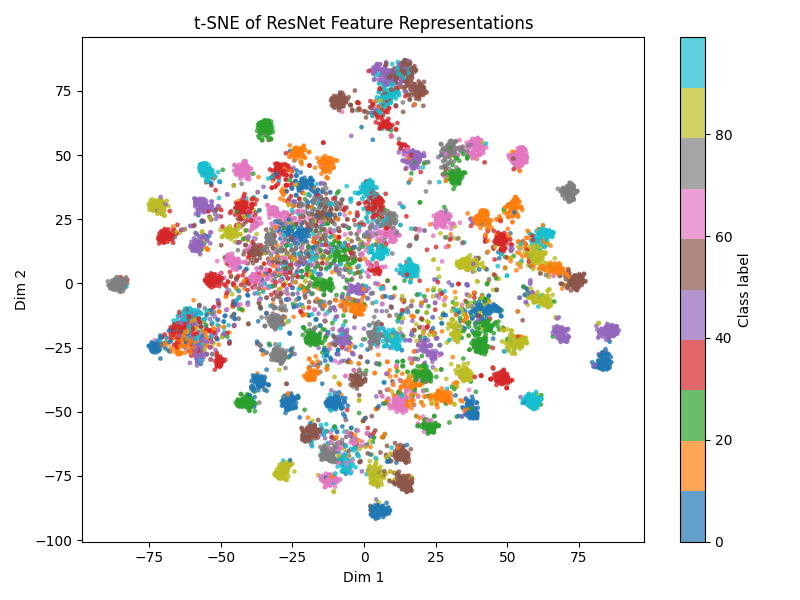
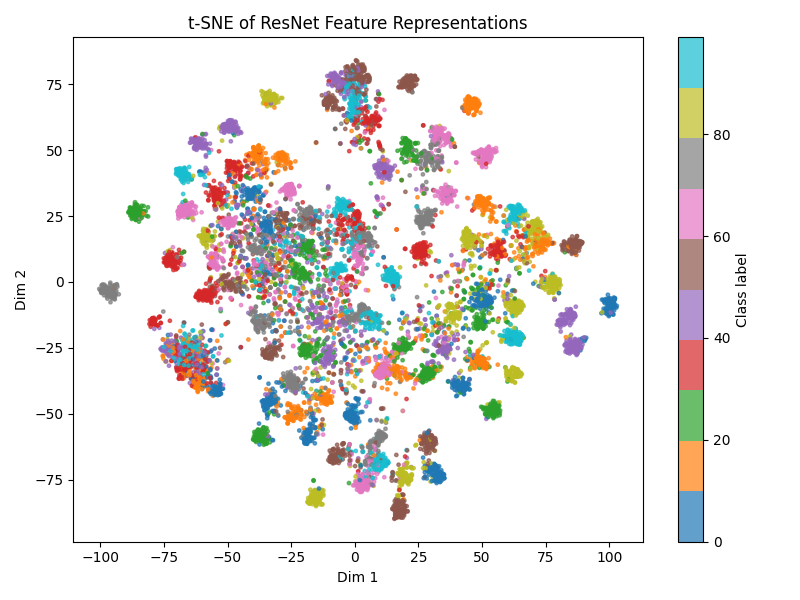
visualize feat 20 super class

diff --git a/visualize_feat.py b/visualize_feat.py
@@ -1,3 +1,140 @@
+# import os
+# import torch
+# import torchvision
+# import random
+# import torchvision.transforms as transforms
+# import numpy as np
+# import matplotlib.pyplot as plt
+# import matplotlib.cm as cm
+# import argparse
+# from torch.utils.data import DataLoader, Subset
+# from src.models.resnet import ResNet18
+# from sklearn.manifold import TSNE
+# from tqdm import tqdm
+# from src.models.wide_resnet import Wide_ResNet
+# from torchvision.datasets import STL10, CIFAR10, CIFAR100
+# from umap import UMAP
+
+# method     = "tsne"
+
+# parser = argparse.ArgumentParser()
+# parser.add_argument("--i",          type=int, default=1)
+# parser.add_argument("--epochs",     type=int, default=400)
+# parser.add_argument("--data_type",  type=str, default="cifar100",  choices=["stl10", "cifar100", "cifar10"])
+# parser.add_argument("--model_type", type=str, default="wide_resnet_28_10", choices=["resnet18", "resnet101", "wide_resnet_28_10"])
+# parser.add_argument("--k_foma",     type=int, default=0)
+# args = parser.parse_args() 
+
+# i          = args.i
+# epochs     = args.epochs
+# data_type  = args.data_type
+# model_type = args.model_type
+# k_foma     = args.k_foma
+# device     = torch.device('cuda' if torch.cuda.is_available() else 'cpu')
+# os.makedirs(f"./result_features/{method}/{data_type}", exist_ok=True)
+
+# augmentations = [
+#     # "FOMA-Mixup",
+#     # "Default",
+#     # "Mixup", 
+#     # "Local-FOMA", 
+#     "Mixup-FOMA2",
+# ]
+
+# if data_type == "stl10":
+#     num_classes = 10
+#     batch_size  = 64
+# elif data_type == "cifar100":
+#     epochs      = 400
+#     num_classes = 100
+#     batch_size  = 128
+# elif data_type == "cifar10":
+#     epochs      = 250
+#     num_classes = 10
+#     batch_size  = 128
+
+# for augment in augmentations:
+#     features_list = []
+#     labels_list = []
+#     if k_foma == 0:
+#         model_save_path = f"./logs/{model_type}/{augment}/{data_type}_{epochs}_{i}.pth"
+#     else:    
+#         model_save_path = f"./logs/{model_type}/{augment}/{data_type}_{epochs}_{i}_{k_foma}.pth"
+    
+#     if model_type == "resnet18":
+#         model = ResNet18().to(device)
+#     elif model_type == "wide_resnet_28_10":
+#         model = Wide_ResNet(28, 10, 0.3, num_classes).to(device)
+    
+#     if data_type == "stl10":
+#         transform     = transforms.Compose([transforms.ToTensor(), transforms.Normalize(mean=[0.485, 0.456, 0.406], std=[0.229, 0.224, 0.225])])
+#         test_dataset  = STL10(root="./data", split="train", download=True, transform=transform)
+#     elif data_type == "cifar100":
+#         transform     = transforms.Compose([transforms.ToTensor(), transforms.Normalize(mean=[0.485, 0.456, 0.406], std=[0.229, 0.224, 0.225])])
+#         test_dataset  = CIFAR100(root="./data", train=False, transform=transform, download=True)
+#     elif data_type == "cifar10":
+#         transform     = transforms.Compose([transforms.ToTensor(), transforms.Normalize(mean=[0.485, 0.456, 0.406], std=[0.229, 0.224, 0.225])])
+#         test_dataset  = CIFAR10(root="./data", train=False, transform=transform, download=True)
+    
+#     # テストセットの1/10だけ使う
+#     # total_len = len(test_dataset)
+#     # subset_len = total_len // 10
+#     # indices = random.sample(range(total_len), subset_len)
+#     # test_dataset = Subset(test_dataset, indices)
+    
+#     test_loader  = DataLoader(dataset=test_dataset,  batch_size=batch_size, shuffle=False)
+
+#     model.load_state_dict(torch.load(model_save_path, weights_only=True))
+#     model.eval()
+#     with torch.no_grad():
+#         for images, labels in tqdm(test_loader, leave=False):
+#             images = images.to(device)
+#             features = model.extract_features(images)
+#             features_list.append(features.cpu())
+#             labels_list.append(labels)
+#     X = torch.cat(features_list, dim=0).numpy()
+#     y = torch.cat(labels_list, dim=0).numpy()
+
+#     if method == "tsne":
+#         reducer = TSNE(n_components=2, random_state=42, perplexity=30, n_iter=1500)
+#     elif method == "umap":
+#         # reducer = UMAP(n_components=2, random_state=42)
+#         reducer = UMAP(
+#             n_components=2,
+#             n_neighbors=15,
+#             min_dist=0.1,
+#             metric='euclidean',
+#             random_state=42
+#         )
+#     X_2d = reducer.fit_transform(X)
+
+#     plt.figure(figsize=(8, 6))
+#     scatter = plt.scatter(X_2d[:, 0], X_2d[:, 1], c=y, cmap='tab10', s=6, alpha=0.7)
+#     plt.colorbar(scatter, label="Class label")
+#     plt.title("t-SNE of ResNet Feature Representations")
+#     plt.xlabel("Dim 1")
+#     plt.ylabel("Dim 2")
+#     plt.tight_layout()
+#     plt.savefig(f"./result_features/{method}/{data_type}/{augment}.png")
+
+
+#     # # カラーマップを100クラスに対応させる
+#     # num_classes = 100  # ここはdata_typeに応じて変えるか、すでにある変数を使う
+#     # cmap = cm.get_cmap('nipy_spectral', num_classes)  # 高識別性で100色対応
+
+#     # plt.figure(figsize=(10, 8))
+#     # scatter = plt.scatter(X_2d[:, 0], X_2d[:, 1], c=y, cmap=cmap, s=6, alpha=0.7)
+
+#     # # カラーバー（省略してもよい）
+#     # cbar = plt.colorbar(scatter, ticks=np.linspace(0, num_classes, 11, endpoint=False))
+#     # cbar.set_label("Class label")
+
+#     # plt.title("t-SNE of ResNet Feature Representations")
+#     # plt.xlabel("Dim 1")
+#     # plt.ylabel("Dim 2")
+#     # plt.tight_layout()
+#     # plt.savefig(f"./result_tsne/{data_type}/{augment}.png")
+
 import os
 import torch
 import torchvision
@@ -7,6 +144,7 @@ import numpy as np
 import matplotlib.pyplot as plt
 import matplotlib.cm as cm
 import argparse
+from matplotlib.colors import ListedColormap
 from torch.utils.data import DataLoader, Subset
 from src.models.resnet import ResNet18
 from sklearn.manifold import TSNE
@@ -15,14 +153,13 @@ from src.models.wide_resnet import Wide_ResNet
 from torchvision.datasets import STL10, CIFAR10, CIFAR100
 from umap import UMAP
 
-method     = "tsne"
-
 parser = argparse.ArgumentParser()
 parser.add_argument("--i",          type=int, default=1)
 parser.add_argument("--epochs",     type=int, default=400)
 parser.add_argument("--data_type",  type=str, default="cifar100",  choices=["stl10", "cifar100", "cifar10"])
 parser.add_argument("--model_type", type=str, default="wide_resnet_28_10", choices=["resnet18", "resnet101", "wide_resnet_28_10"])
 parser.add_argument("--k_foma",     type=int, default=0)
+parser.add_argument("--method",     type=str, default="tsne")
 args = parser.parse_args() 
 
 i          = args.i
@@ -30,6 +167,7 @@ epochs     = args.epochs
 data_type  = args.data_type
 model_type = args.model_type
 k_foma     = args.k_foma
+method     = args.method
 device     = torch.device('cuda' if torch.cuda.is_available() else 'cpu')
 os.makedirs(f"./result_features/{method}/{data_type}", exist_ok=True)
 
@@ -46,12 +184,28 @@ if data_type == "stl10":
     batch_size  = 64
 elif data_type == "cifar100":
     epochs      = 400
-    num_classes = 100
+    num_classes = 100  # ← 学習済みモデルは100クラス想定のまま
     batch_size  = 128
 elif data_type == "cifar10":
     epochs      = 250
     num_classes = 10
     batch_size  = 128
+
+# ===== 追加: CIFAR-100 可視化を「代表20クラス」のみに制限する設定 =====
+# 各スーパークラスから1クラスずつ任意選択（fine label index）
+# 参考: apple(0)=fruit_and_vegetables, aquarium_fish(1)=fish, bear(3)=large_carnivores, bicycle(8)=vehicles_1,
+# bottle(9)=household_containers, camel(15)=large_omnivores_and_herbivores, clock(22)=household_electrical_devices,
+# cloud(23)=natural, forest(33)=outdoor_scenes, house(37)=household_furniture,
+# lawn_mower(45)=household_electrical_devices, leopard(46)=large_carnivores, man(47)=people,
+# orange(49)=fruit_and_vegetables, pickup_truck(58)=vehicles_2, plain(59)=outdoor_scenes,
+# rocket(61)=vehicles_2, sea(71)=natural, table(84)=household_furniture, whale(95)=aquatic_mammals
+REPRESENTATIVE_20_FINE = [0, 1, 3, 8, 9, 15, 22, 23, 33, 37,
+                          45, 46, 47, 49, 58, 59, 61, 71, 84, 95]
+REPRESENTATIVE_20_NAMES = [
+    "apple","aquarium_fish","bear","bicycle","bottle","camel","clock","cloud","forest","house",
+    "lawn_mower","leopard","man","orange","pickup_truck","plain","rocket","sea","table","whale"
+]
+FINE_TO_20IDX = {fine:i for i, fine in enumerate(REPRESENTATIVE_20_FINE)}
 
 for augment in augmentations:
     features_list = []
@@ -71,12 +225,19 @@ for augment in augmentations:
         test_dataset  = STL10(root="./data", split="train", download=True, transform=transform)
     elif data_type == "cifar100":
         transform     = transforms.Compose([transforms.ToTensor(), transforms.Normalize(mean=[0.485, 0.456, 0.406], std=[0.229, 0.224, 0.225])])
-        test_dataset  = CIFAR100(root="./data", train=False, transform=transform, download=True)
+        full_dataset  = CIFAR100(root="./data", train=False, transform=transform, download=True)
+
+        # --- 代表20クラスのみ抽出（Subset化） ---
+        # full_dataset.targets は fine labels (0-99)
+        indices = [idx for idx, fine in enumerate(full_dataset.targets) if fine in REPRESENTATIVE_20_FINE]
+        test_dataset = Subset(full_dataset, indices)
+
+        # 注意: モデルは100クラスのまま（feature抽出なのでOK）
     elif data_type == "cifar10":
         transform     = transforms.Compose([transforms.ToTensor(), transforms.Normalize(mean=[0.485, 0.456, 0.406], std=[0.229, 0.224, 0.225])])
         test_dataset  = CIFAR10(root="./data", train=False, transform=transform, download=True)
     
-    # テストセットの1/10だけ使う
+    # テストセットの1/10だけ使う（必要なら）
     # total_len = len(test_dataset)
     # subset_len = total_len // 10
     # indices = random.sample(range(total_len), subset_len)
@@ -95,10 +256,14 @@ for augment in augmentations:
     X = torch.cat(features_list, dim=0).numpy()
     y = torch.cat(labels_list, dim=0).numpy()
 
+    # --- CIFAR-100 のときは 0..19 に再マッピング（色分けのため） ---
+    if data_type == "cifar100":
+        # y は fine label (0-99) のはずなので，代表20以外は存在しない前提
+        y = np.vectorize(FINE_TO_20IDX.get)(y)
+
     if method == "tsne":
         reducer = TSNE(n_components=2, random_state=42, perplexity=30, n_iter=1500)
     elif method == "umap":
-        # reducer = UMAP(n_components=2, random_state=42)
         reducer = UMAP(
             n_components=2,
             n_neighbors=15,
@@ -109,28 +274,34 @@ for augment in augmentations:
     X_2d = reducer.fit_transform(X)
 
     plt.figure(figsize=(8, 6))
-    scatter = plt.scatter(X_2d[:, 0], X_2d[:, 1], c=y, cmap='tab10', s=6, alpha=0.7)
-    plt.colorbar(scatter, label="Class label")
-    plt.title("t-SNE of ResNet Feature Representations")
+    if data_type == "cifar100":
+        cmap = cm.get_cmap('tab20', 20)
+        # bright_colors = [
+        #     "red", "blue", "green", "orange", "purple",
+        #     "cyan", "magenta", "yellow", "brown", "lime",
+        #     "pink", "teal", "navy", "gold", "darkred",
+        #     "darkgreen", "darkblue", "darkorange", "darkviolet", "olive"
+        # ]
+        # cmap = ListedColormap(bright_colors)
+        # cmap = plt.cm.get_cmap("gist_rainbow", 20)  # 20 クラス対応
+        scatter = plt.scatter(X_2d[:, 0], X_2d[:, 1], c=y, cmap=cmap, s=6, alpha=0.7)
+        cbar = plt.colorbar(scatter, ticks=np.arange(20))
+        cbar.set_label("Representative class (20)")
+        # 余裕があればクラス名も表示（長い場合は省略されます）
+        try:
+            cbar.ax.set_yticklabels(REPRESENTATIVE_20_NAMES)
+        except Exception:
+            pass
+        title = "t-SNE of Feature Representations (CIFAR-100: 20 selected classes)"
+        save_suffix = "_20classes"
+    else:
+        scatter = plt.scatter(X_2d[:, 0], X_2d[:, 1], c=y, cmap='tab10', s=6, alpha=1)
+        plt.colorbar(scatter, label="Class label")
+        title = "t-SNE of ResNet Feature Representations"
+        save_suffix = ""
+
+    plt.title(title)
     plt.xlabel("Dim 1")
     plt.ylabel("Dim 2")
     plt.tight_layout()
-    plt.savefig(f"./result_features/{method}/{data_type}/{augment}.png")
-
-
-    # # カラーマップを100クラスに対応させる
-    # num_classes = 100  # ここはdata_typeに応じて変えるか、すでにある変数を使う
-    # cmap = cm.get_cmap('nipy_spectral', num_classes)  # 高識別性で100色対応
-
-    # plt.figure(figsize=(10, 8))
-    # scatter = plt.scatter(X_2d[:, 0], X_2d[:, 1], c=y, cmap=cmap, s=6, alpha=0.7)
-
-    # # カラーバー（省略してもよい）
-    # cbar = plt.colorbar(scatter, ticks=np.linspace(0, num_classes, 11, endpoint=False))
-    # cbar.set_label("Class label")
-
-    # plt.title("t-SNE of ResNet Feature Representations")
-    # plt.xlabel("Dim 1")
-    # plt.ylabel("Dim 2")
-    # plt.tight_layout()
-    # plt.savefig(f"./result_tsne/{data_type}/{augment}.png")
+    plt.savefig(f"./result_features/{method}/{data_type}/{augment}_{k_foma}_{save_suffix}.png")
